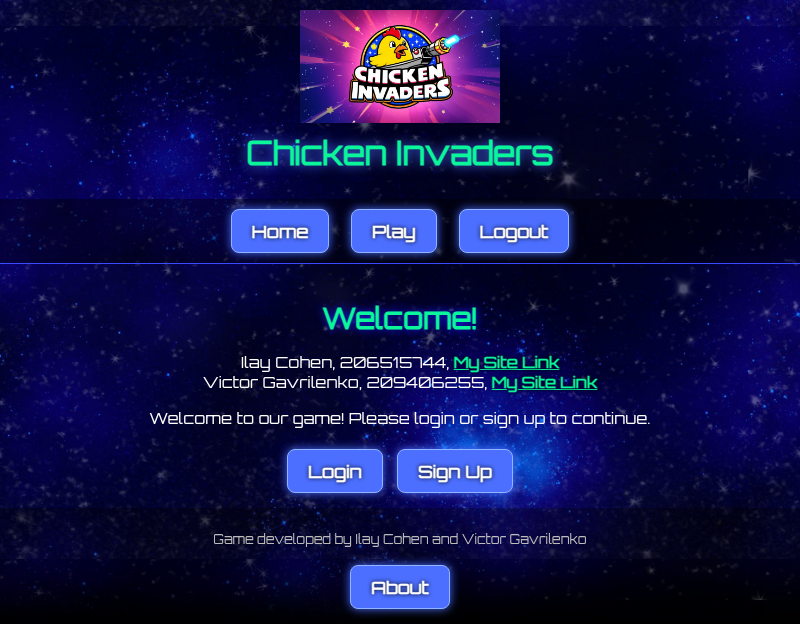
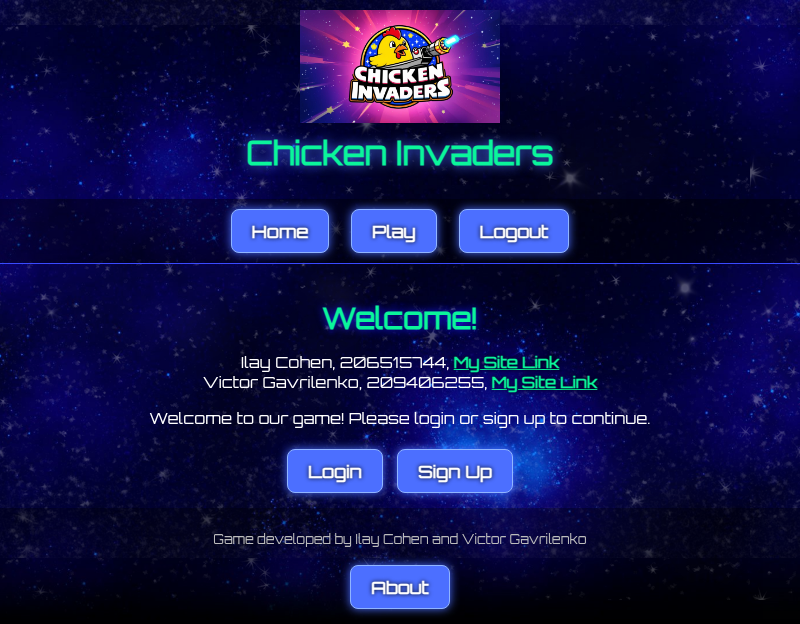
Update screenshot with cache busting

diff --git a/README.md b/README.md
@@ -50,7 +50,7 @@ The code is organized into modular sections:
 
 added for fun a live screenshot feature for the website, it's updated every 12hours to main branch using github actions. instructions for the workflow are in `screenshot.yml` 
 
-![Live Preview](./preview.png?v=1745110979)
+![Live Preview](./preview.png?v=1745151651)
 
 ---
 
